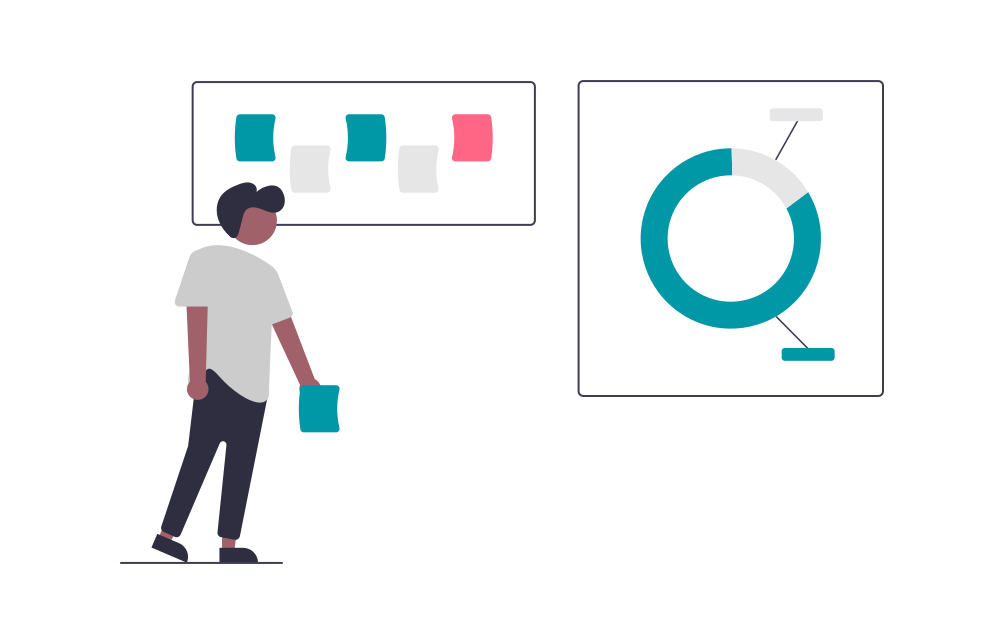
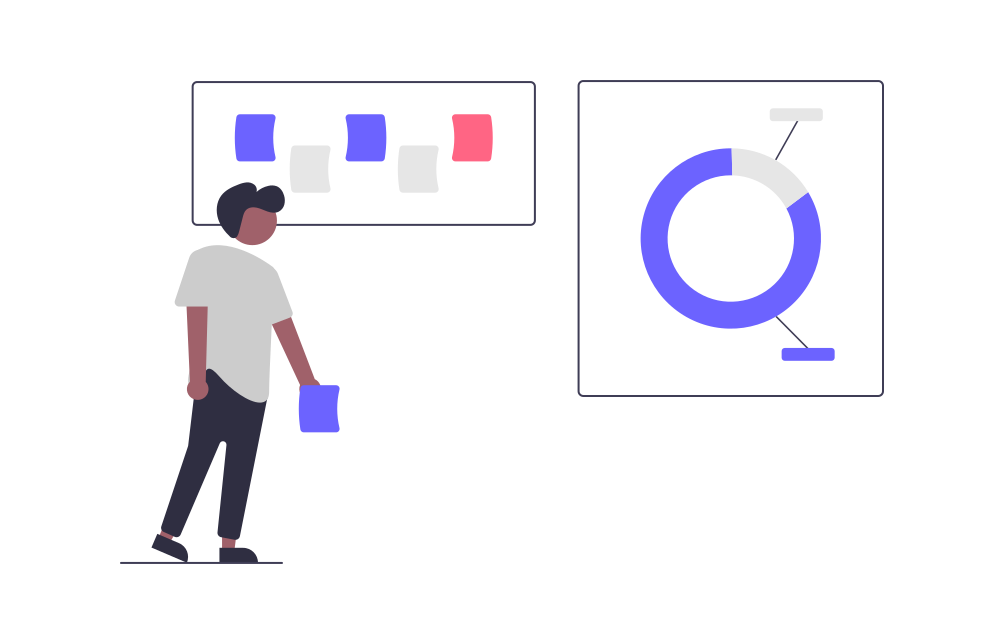
style: alteração de cor e imgs

diff --git a/css/estilo.css b/css/estilo.css
@@ -14,7 +14,7 @@ header img {
 
 header {
     position: relative;
-    background-color: #0097A7;
+    background-color: #6C63FF;
     text-align: center;
     box-shadow: 0px 4px 4px 2px rgb(0 0 0 / 14%);
 }
@@ -35,7 +35,7 @@ h2,
 h3,
 h4 {
     text-transform: uppercase;
-    color: #0097A7;
+    color: #6C63FF;
 
 }
 
@@ -45,8 +45,8 @@ h3 {
 }
 
 .btn.btn-primary {
-    background-color: #0097A7;
-    border-color: #0097A7;
+    background-color: #6C63FF;
+    border-color: #6C63FF;
     text-transform: uppercase;
     margin: 10px 0;
 }

diff --git a/script.js b/script.js
@@ -40,7 +40,7 @@ function btnCadastrarNovo() {
             descricao: descricao_input.value
         }
 
-    
+        alert('Novo serviço adicionado!')
         servicos.push(salvarNovo);
         window.scrollTo(0,document.body.scrollHeight)
         
